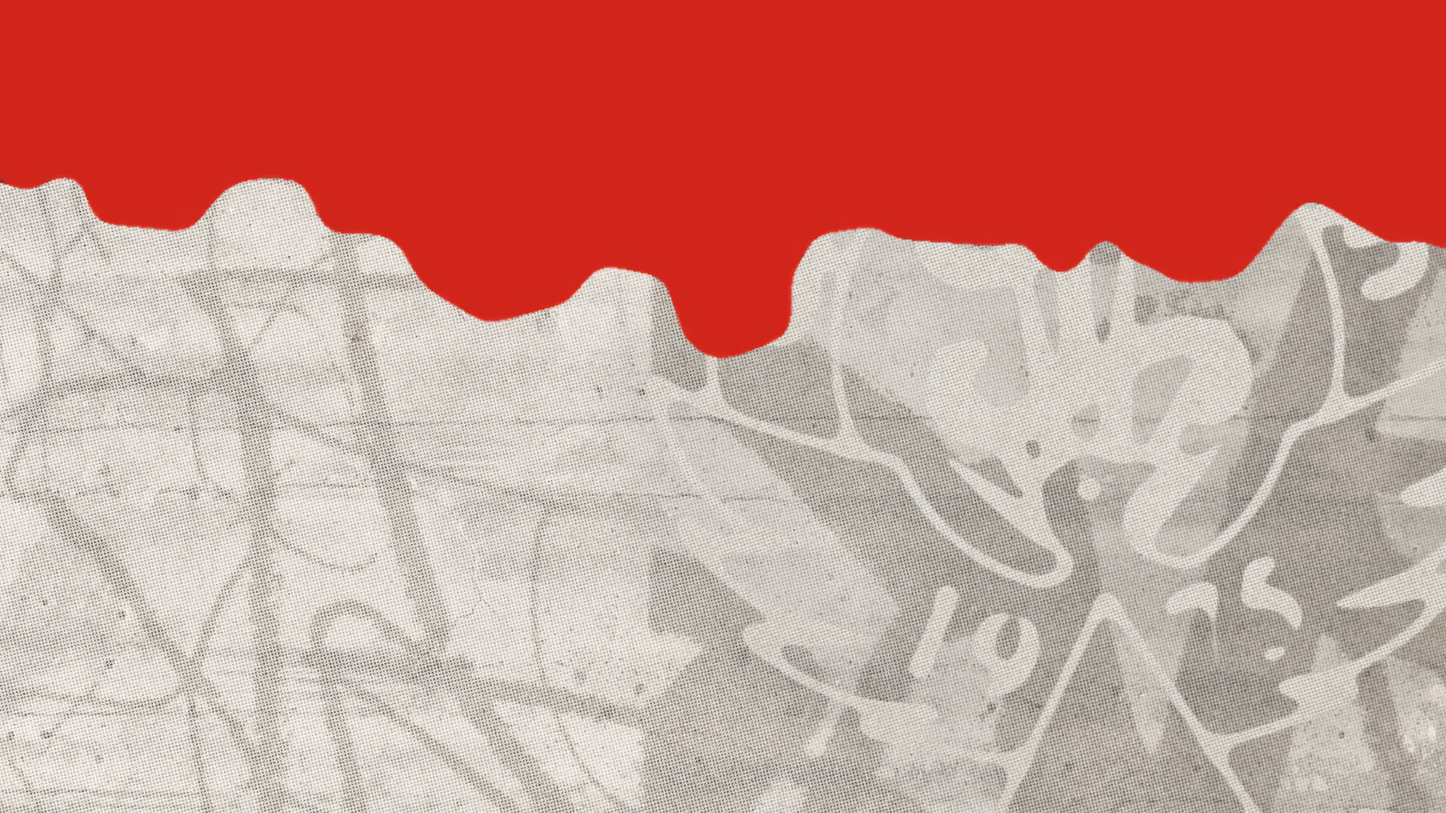
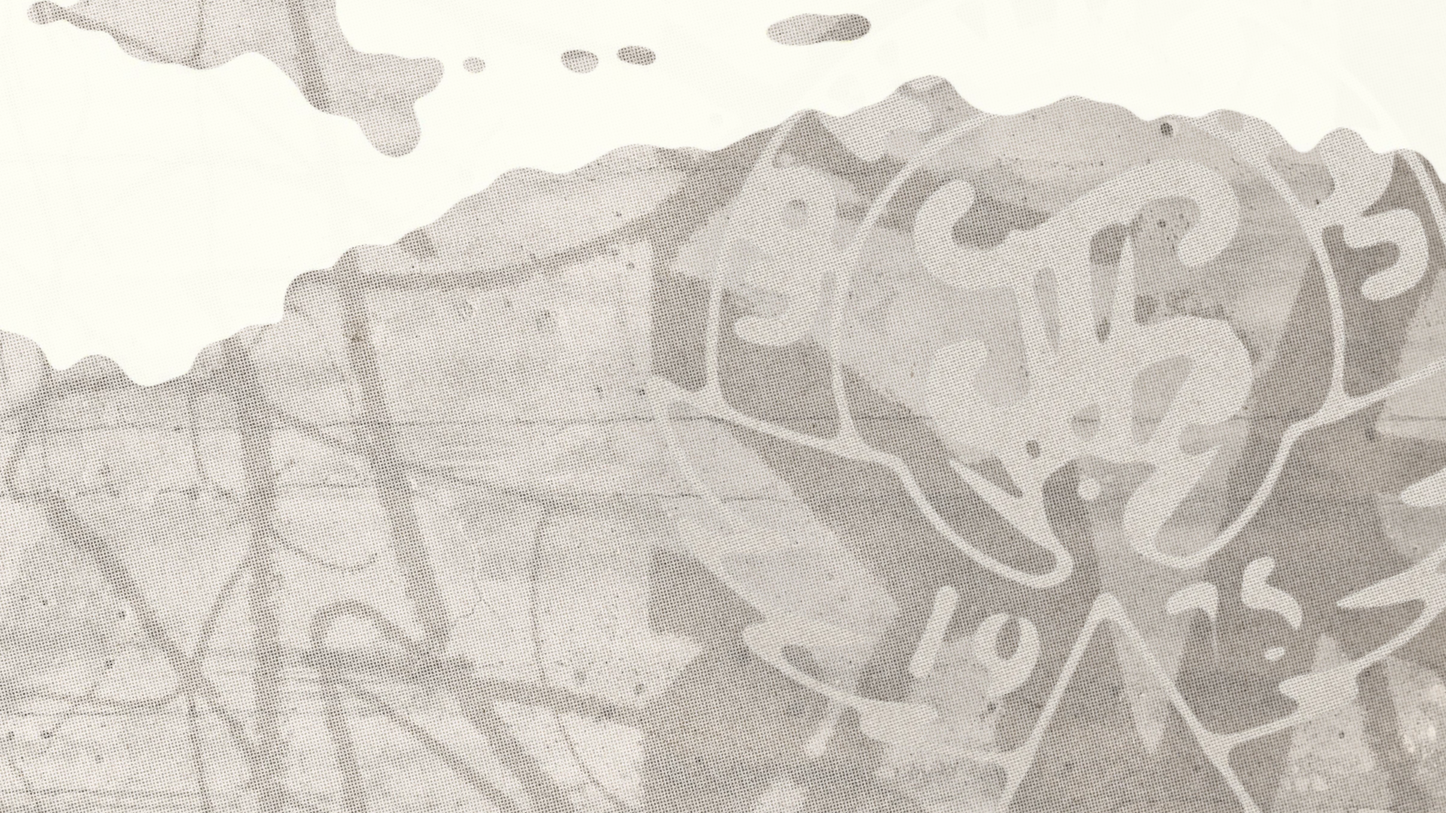
with bg

diff --git a/tagisan.css b/tagisan.css
@@ -102,6 +102,71 @@ body::before {
 }
 
 /* ----------------------------------------------------
+   2B. PAGE BACKGROUND IMAGES (EASY ON / OFF TOGGLE)
+   - Toggle OFF everywhere: comment out the `body.use-page-bg::after` block below.
+   - Toggle OFF per page: remove `use-page-bg` from <body> in that HTML file,
+     OR comment out that page's `--page-bg` line below.
+   ---------------------------------------------------- */
+body.use-page-bg {
+  background-color: transparent;
+  background-image: none;
+  animation: none !important;
+}
+
+/* Comment out this block to turn OFF custom background images globally */
+body.use-page-bg::after {
+  content: "";
+  position: fixed;
+  inset: 0;
+  z-index: -1;
+  pointer-events: none;
+  background-image: var(--page-bg);
+  background-position: var(--page-bg-pos, center center);
+  background-size: cover;
+  background-repeat: no-repeat;
+  image-rendering: auto;
+  transform: translateZ(0);
+}
+
+/* Per-page image assignments (comment out any line to revert that page to paper grain) */
+body.use-page-bg.page-index {
+  --page-bg: url('assets/bg/index-bg.png');
+  --page-bg-pos: center bottom;
+}
+body.use-page-bg.page-player {
+  --page-bg: url('assets/bg/player-bg.png');
+  --page-bg-pos: center bottom;
+}
+body.use-page-bg.page-host {
+  --page-bg: url('assets/bg/host-bg.png');
+  --page-bg-pos: center top;
+}
+body.use-page-bg.page-spectator {
+  --page-bg: url('assets/bg/spectator-bg.png');
+  --page-bg-pos: center top;
+}
+
+/* Readability adjustments when custom backgrounds are active */
+body.use-page-bg.page-player .footer-info {
+  color: var(--cream);
+  /* background-color: var(--cream);
+  border: 2px solid var(--red);
+  padding: 6px 14px;
+  box-shadow: 2px 2px 0 var(--newsprint); */
+  opacity: 1;
+}
+body.use-page-bg.page-host .header-top {
+  border-bottom-color: rgba(250, 249, 240, 0.5);
+}
+body.use-page-bg.page-spectator .spectator-brand-left {
+  background-color: var(--cream);
+  border: 3px solid var(--red);
+  padding: 10px 22px;
+  box-shadow: 4px 4px 0 var(--red-deep);
+  transform: rotate(-0.4deg);
+}
+
+/* ----------------------------------------------------
    3. TYPOGRAPHY & HEADINGS
    ---------------------------------------------------- */
 h1, h2, h3, .heading-display {
@@ -418,6 +483,12 @@ label {
   box-shadow: 3px 3px 0 var(--newsprint);
   width: 100%;
   transform: rotate(-0.5deg);
+  animation: statusBannerSway 4s ease-in-out infinite;
+}
+
+@keyframes statusBannerSway {
+  0%, 100% { transform: rotate(-0.5deg) translateY(0); }
+  50% { transform: rotate(0.3deg) translateY(-2px); }
 }
 
 /* Responsive Giant Buzzer (image-based faces)
@@ -1074,8 +1145,8 @@ button.score-toggle-btn.active {
 /* Prominent Circular School Logo Slot with Fallback
    To make team logos bigger on spectator.html: raise width/height below and lower `padding` on `.school-logo img`. */
 .school-logo {
-  width: 240px;
-  height: 240px;
+  width: 200px;
+  height: 200px;
   border-radius: 50%;
   background-color: var(--cream);
   border: 4px solid var(--red);
@@ -1088,6 +1159,7 @@ button.score-toggle-btn.active {
   align-self: center;
   position: relative;
 }
+
 .school-logo img {
   width: 100%;
   height: 100%;
@@ -1176,7 +1248,7 @@ button.score-toggle-btn.active {
    ---------------------------------------------------- */
 .tagisan-footer {
   width: 100%;
-  background-color: var(--red);
+  /* background-color: var(--red); */
   color: var(--cream);
   padding: 12px 20px;
   display: flex;

diff --git a/player.html b/player.html
@@ -78,7 +78,8 @@
         }
     </style>
 </head>
-<body>
+<!-- Remove "use-page-bg" below to disable assets/bg/player-bg.png on this page -->
+<body class="page-player use-page-bg">
 
     <div class="header">
         <div class="number-box">#<span id="displayNumber">0</span></div>
@@ -108,7 +109,7 @@
     </div>
 
     <div class="footer-info">
-        Tagisan 41 Quiz Show &bull; UP Kalilayan
+        Tagisan 41 &bull; UP Kalilayan
     </div>
 
     <script src="/socket.io/socket.io.js"></script>

diff --git a/spectator.html b/spectator.html
@@ -12,11 +12,11 @@
             flex-direction: column;
             min-height: 100vh;
             padding: 24px 32px;
-            background-color: var(--cream);
         }
     </style>
 </head>
-<body>
+<!-- Remove "use-page-bg" below to disable assets/bg/spectator-bg.png on this page -->
+<body class="page-spectator use-page-bg">
 
 <div class="spectator-stage">
         <!-- Centered Top Stage Header -->

diff --git a/index.html b/index.html
@@ -137,7 +137,8 @@
         }
     </style>
 </head>
-<body>
+<!-- Remove "use-page-bg" below to disable assets/bg/index-bg.png on this page -->
+<body class="page-index use-page-bg">
 
     <div class="container">
         <!-- Dual Brand Mark: Inverted Triangle Logo & UP Kalilayan Seal -->

diff --git a/host.html b/host.html
@@ -51,7 +51,8 @@
         }
     </style>
 </head>
-<body>
+<!-- Remove "use-page-bg" below to disable assets/bg/host-bg.png on this page -->
+<body class="page-host use-page-bg">
 
     <div class="container">
         <div>
